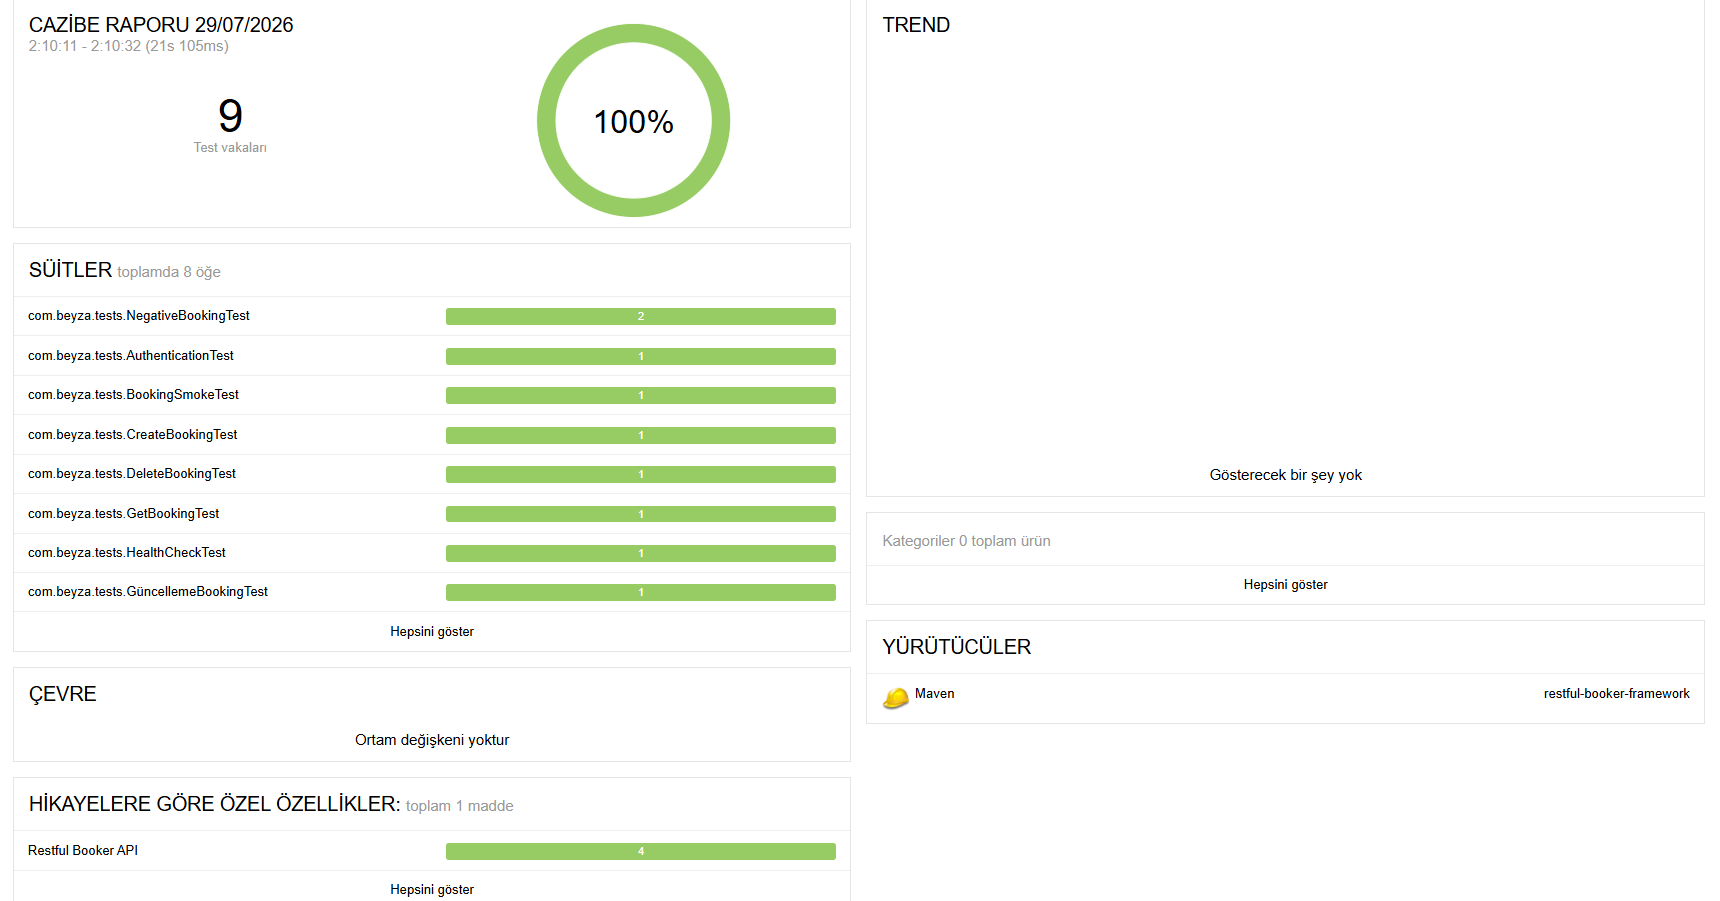
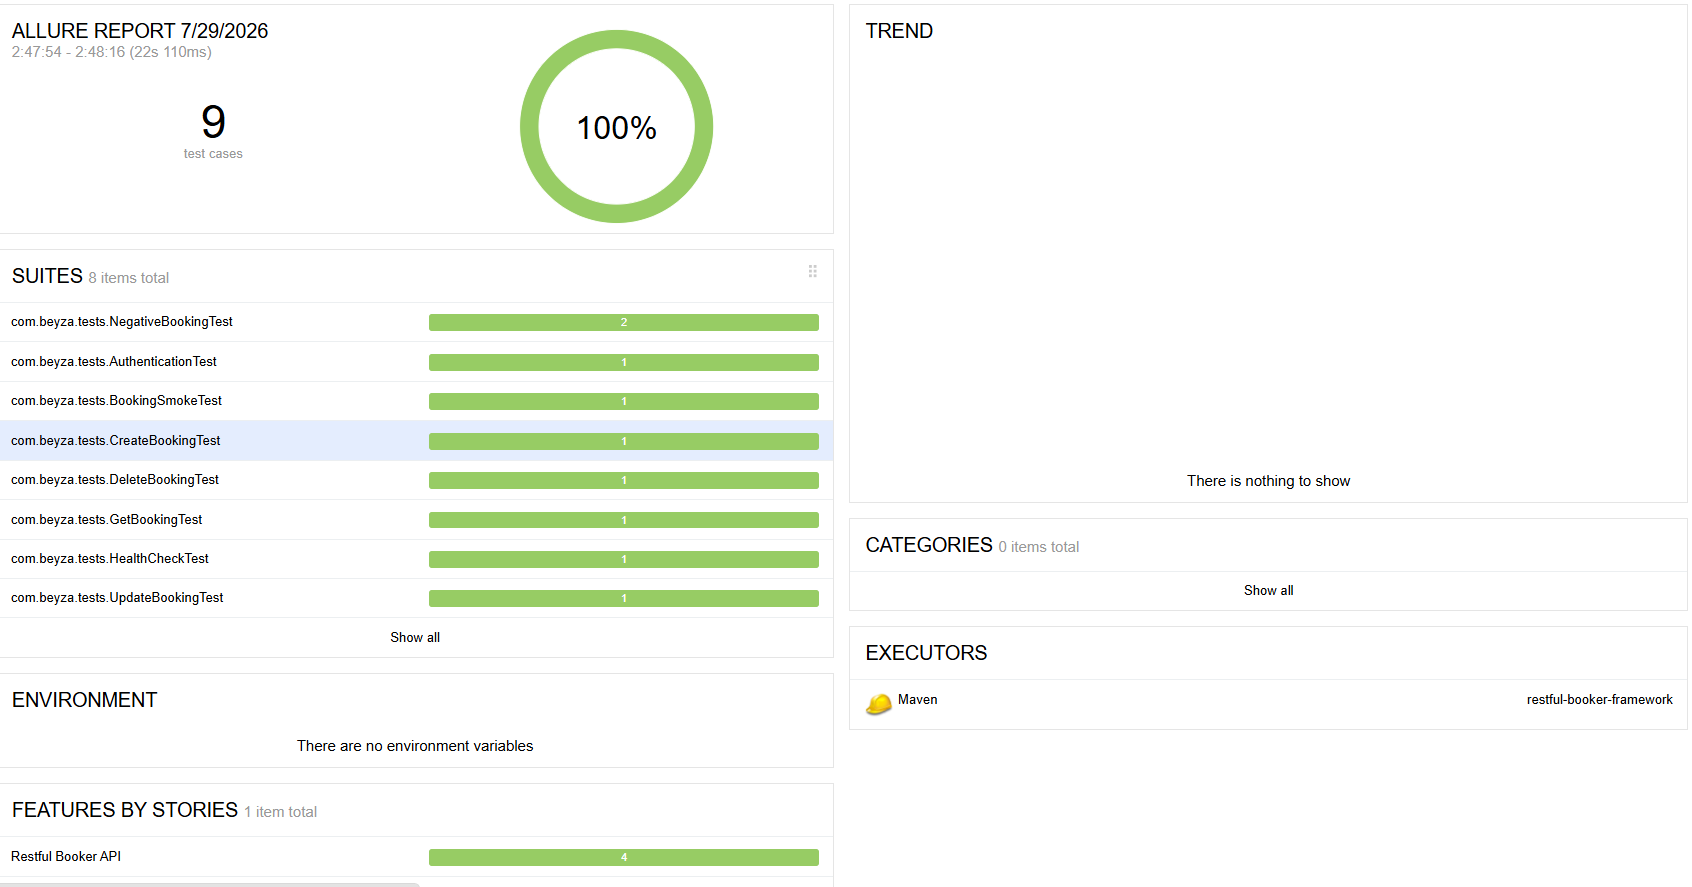
Add allure report screenshot to README

diff --git a/README.md b/README.md
@@ -159,7 +159,9 @@ Or, using the Maven plugin directly (no separate Allure installation required):
 ```bash
 mvn allure:serve
 ```
+### Sample Report
 
+![Allure Report](images/allure-report.png)
 ---
 
 ## Continuous Integration
@@ -182,4 +184,3 @@ Junior QA Engineer
 
 - GitHub: [github.com/beyzaozgeee](https://github.com/beyzaozgeee)
 - LinkedIn: [linkedin.com/in/beyza-özge-abay](https://www.linkedin.com/in/beyza-%C3%B6zge-abay-8abb20397/)
-
